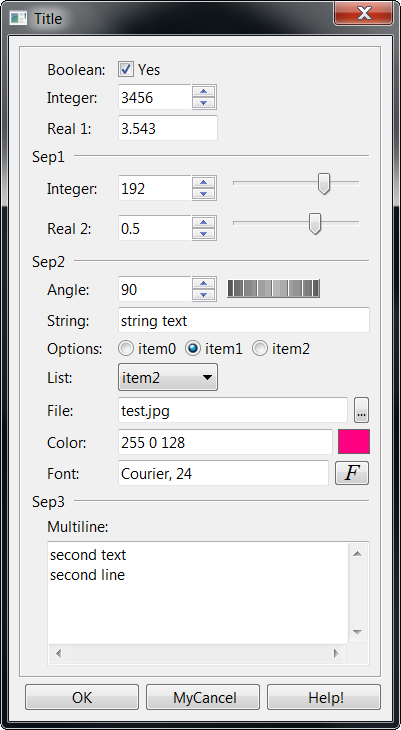
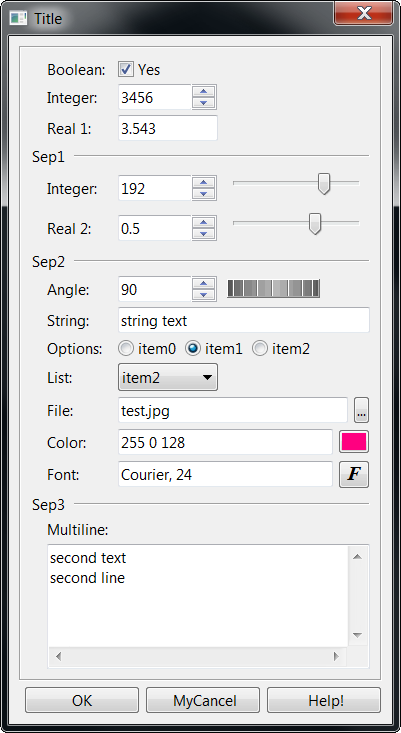
*** empty log message ***

diff --git a/html/en/elem/iupbutton.html b/html/en/elem/iupbutton.html
@@ -1,4 +1,4 @@
-<!DOCTYPE HTML PUBLIC "-//W3C//DTD HTML 4.0 Strict//EN">
+<!DOCTYPE HTML PUBLIC "-//W3C//DTD HTML 4.0 Strict//EN">
 <html>
 <head>
 
@@ -237,7 +237,8 @@ dependency. But after
 <p><a href="../../examples/">Browse for Example Files</a></p>
 
 <p>The buttons with image and text simultaneous have PADDING=5x5, the other 
-buttons have no padding.</p>
+buttons have no padding. The buttons with no text and BGCOLOR defined have their 
+RASTERSIZE set.</p>
 
 <table align="center">
 
@@ -291,6 +292,18 @@ buttons have no padding.</p>
 		<td class="bg_winxp"><img src="images/iupbutton_winxp_image.png"></td>
 
 		<td class="bg_gtk"><img src="images/iupbutton_gtk_image.png"></td>
+
+	</tr>
+	
+	<tr>
+
+		<td class="bg_mot"><img src="images/iupbutton_mot_bgcolor.png"></td>
+
+		<td class="bg_win2k"><img src="images/iupbutton_win2k_bgcolor.png"></td>
+
+		<td class="bg_winxp"><img src="images/iupbutton_winxp_bgcolor.png"></td>
+
+		<td class="bg_gtk"><img src="images/iupbutton_gtk_bgcolor.png"></td>
 
 	</tr>
 

diff --git a/src/iup_getparam.c b/src/iup_getparam.c
@@ -310,35 +310,32 @@ static int iParamFileButton_CB(Ihandle *self)
   return IUP_DEFAULT;
 }
 
-static int iParamColorButton_CB(Ihandle *self, int button, int pressed)
+static int iParamColorButton_CB(Ihandle *self)
 {
-  if (button==IUP_BUTTON1 && pressed)
+  Ihandle* param   = (Ihandle*)iupAttribGetInherit(self, "_IUPGP_PARAM");
+  Ihandle* textbox = (Ihandle*)iupAttribGetInherit(self, "_IUPGP_TEXT");
+  Ihandle* dlg = IupGetDialog(self);
+  Iparamcb cb = (Iparamcb)IupGetCallback(dlg, "PARAM_CB");
+
+  Ihandle* color_dlg = IupColorDlg();
+  IupSetAttributeHandle(color_dlg, "PARENTDIALOG", IupGetDialog(self));
+  IupSetAttribute(color_dlg, "TITLE", iupAttribGet(param, "TITLE"));
+  IupSetAttribute(color_dlg, "VALUE", iupAttribGet(param, "VALUE"));
+
+  IupPopup(color_dlg, IUP_CENTER, IUP_CENTER);
+
+  if (!cb || cb(dlg, iupAttribGetInt(param, "INDEX"), (void*)iupAttribGet(dlg, "USER_DATA"))) 
   {
-    Ihandle* param   = (Ihandle*)iupAttribGetInherit(self, "_IUPGP_PARAM");
-    Ihandle* textbox = (Ihandle*)iupAttribGetInherit(self, "_IUPGP_TEXT");
-    Ihandle* dlg = IupGetDialog(self);
-    Iparamcb cb = (Iparamcb)IupGetCallback(dlg, "PARAM_CB");
-
-    Ihandle* color_dlg = IupColorDlg();
-    IupSetAttributeHandle(color_dlg, "PARENTDIALOG", IupGetDialog(self));
-    IupSetAttribute(color_dlg, "TITLE", iupAttribGet(param, "TITLE"));
-    IupSetAttribute(color_dlg, "VALUE", iupAttribGet(param, "VALUE"));
-
-    IupPopup(color_dlg, IUP_CENTER, IUP_CENTER);
-
-    if (!cb || cb(dlg, iupAttribGetInt(param, "INDEX"), (void*)iupAttribGet(dlg, "USER_DATA"))) 
+    if (IupGetInt(color_dlg, "STATUS")==1)
     {
-      if (IupGetInt(color_dlg, "STATUS")==1)
-      {
-        char* value = IupGetAttribute(color_dlg, "VALUE");
-        IupSetAttribute(textbox, "VALUE", value);
-        iupAttribStoreStr(param, "VALUE", value);
-        IupStoreAttribute(self, "BGCOLOR", value);
-      }
+      char* value = IupGetAttribute(color_dlg, "VALUE");
+      IupSetAttribute(textbox, "VALUE", value);
+      iupAttribStoreStr(param, "VALUE", value);
+      IupStoreAttribute(self, "BGCOLOR", value);
     }
-
-    IupDestroy(color_dlg);
   }
+
+  IupDestroy(color_dlg);
 
   return IUP_DEFAULT;
 }
@@ -625,12 +622,12 @@ static Ihandle* iParamCreateBox(Ihandle* param)
 
       iupAttribSetStr(param, "EXPAND", "1");
       
-      aux = IupCanvas(NULL);
+      aux = IupButton(NULL, NULL);
       IupSetAttribute(aux, "SIZE", "16x10");
       IupSetAttribute(aux, "EXPAND", "NO");
       IupStoreAttribute(aux, "BGCOLOR", iupAttribGet(param, "VALUE"));
 
-      IupSetCallback(aux, "BUTTON_CB", (Icallback)iParamColorButton_CB);
+      IupSetCallback(aux, "ACTION", (Icallback)iParamColorButton_CB);
       iupAttribSetStr(param, "AUXCONTROL", (char*)aux);
       iupAttribSetStr(aux, "_IUPGP_PARAM", (char*)param);
       iupAttribSetStr(aux, "_IUPGP_TEXT", (char*)ctrl);
@@ -653,9 +650,9 @@ static Ihandle* iParamCreateBox(Ihandle* param)
       iupAttribSetStr(param, "EXPAND", "1");
       
       aux = IupButton("F", NULL);
-      IupSetAttribute(aux, "SIZE", "16x8");
       IupSetAttribute(aux, "EXPAND", "NO");
-      IupStoreAttribute(aux, "FONT", "Times, Italic 14");
+      IupStoreAttribute(aux, "FONT", "Times, Bold Italic 12");
+      IupSetAttribute(aux, "SIZE", "16x10");
 
       IupSetCallback(aux, "ACTION", (Icallback)iParamFontButton_CB);
       iupAttribSetStr(param, "AUXCONTROL", (char*)aux);

diff --git a/test/button.c b/test/button.c
@@ -303,6 +303,13 @@ void ButtonTest(void)
   set_callbacks(button);
   IupAppend(box1, button);
 
+  button = IupButton(NULL, NULL);
+  IupSetAttribute(button, "RASTERSIZE", "30x30");
+  IupSetAttribute(button, "BGCOLOR", "255 128 92");
+  IupSetAttribute(button, "NAME", "color");
+  set_callbacks(button);
+  IupAppend(box1, button);
+
   box2 = IupVbox(NULL);
   IupSetAttribute(box2, "MARGIN", "5x5");
   IupSetAttribute(box2, "GAP", "5");
@@ -390,8 +397,9 @@ void ButtonTest(void)
   IupSetAttribute(dlg, "TITLE", "IupButton Test");
 //  IupSetAttribute(box1, "BGCOLOR", "128 0 0");
 //  IupSetAttribute(dlg, "BGCOLOR", "0 128 0");
-  IupSetAttribute(dlg, "BACKGROUND", "255 128 128");
+//  IupSetAttribute(dlg, "BACKGROUND", "255 128 128");
 //  IupSetAttributeHandle(dlg, "BACKGROUND", image2);
+//  IupSetAttribute(dlg, "BGCOLOR", "173 177 194");  // Motif BGCOLOR for documentation
 
   IupSetAttributeHandle(dlg, "STARTFOCUS", button);
 

diff --git a/src/iup_layoutdlg.c b/src/iup_layoutdlg.c
@@ -1070,7 +1070,7 @@ static void iLayoutCreatePropertiesDialog(iLayoutDialog* layoutdlg, Ihandle* par
 
   fontbut = IupButton("F", NULL);
   IupSetAttribute(fontbut, "SIZE", "20x10");
-  IupStoreAttribute(fontbut, "FONT", "Times, Italic 14");
+  IupStoreAttribute(fontbut, "FONT", "Times, Bold Italic 12");
   IupSetCallback(fontbut, "ACTION", (Icallback)iLayoutPropertiesSetFont_CB);
   IupSetAttribute(fontbut, "NAME", "SETFONTBUT");
   IupSetAttribute(fontbut, "VISIBLE", "NO");
